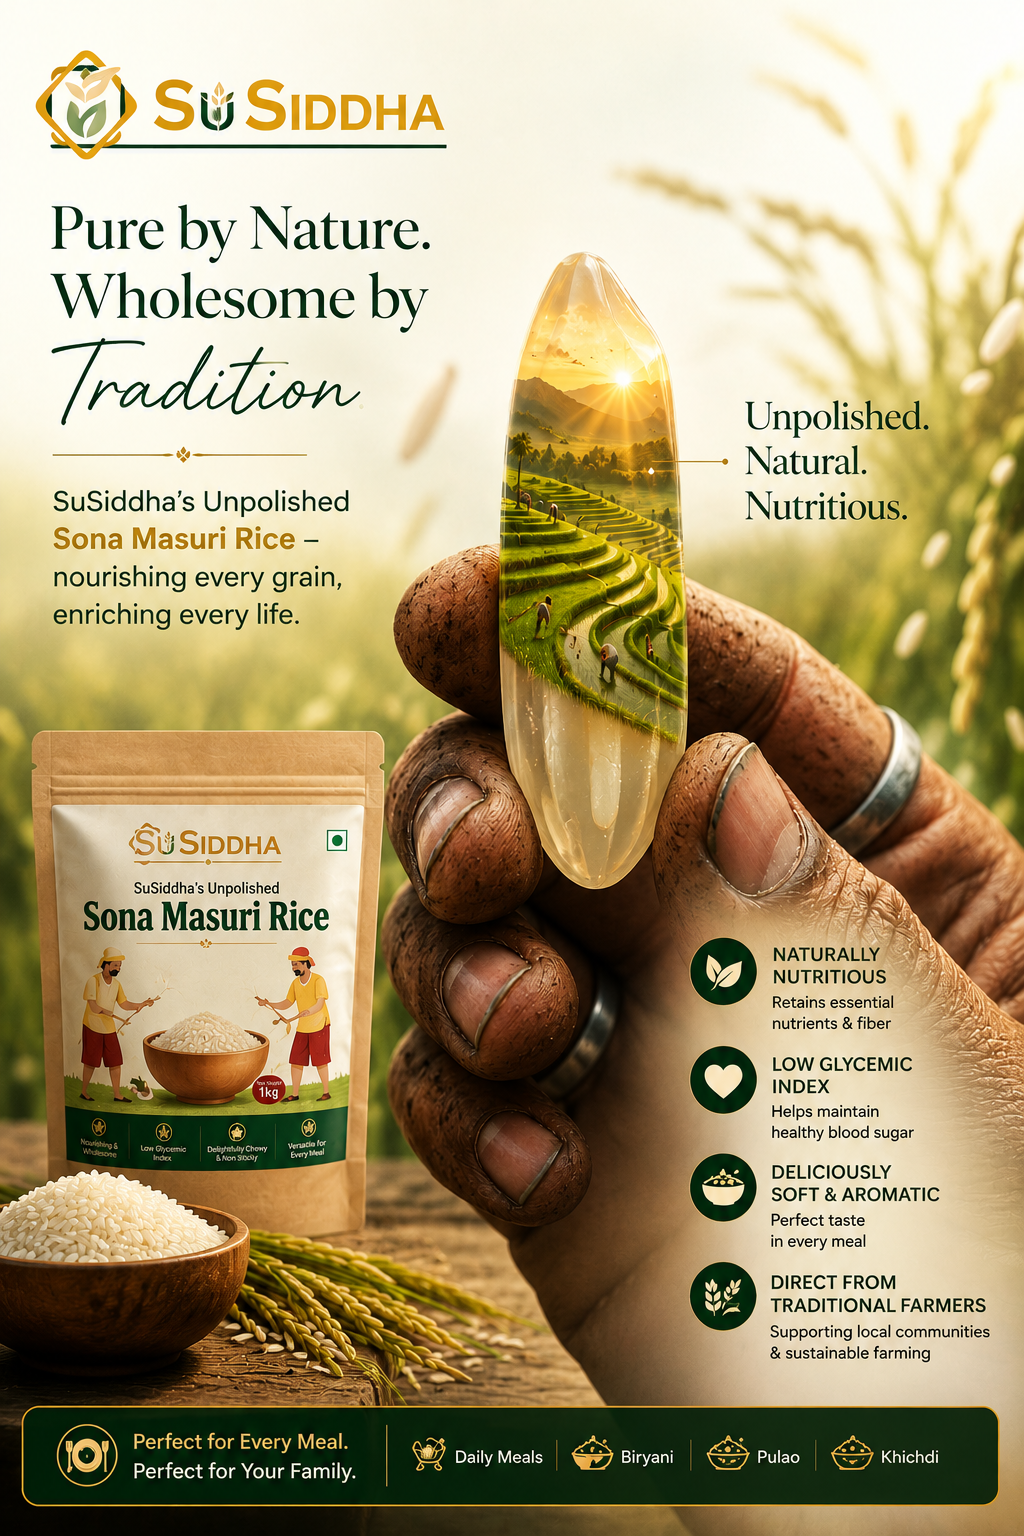
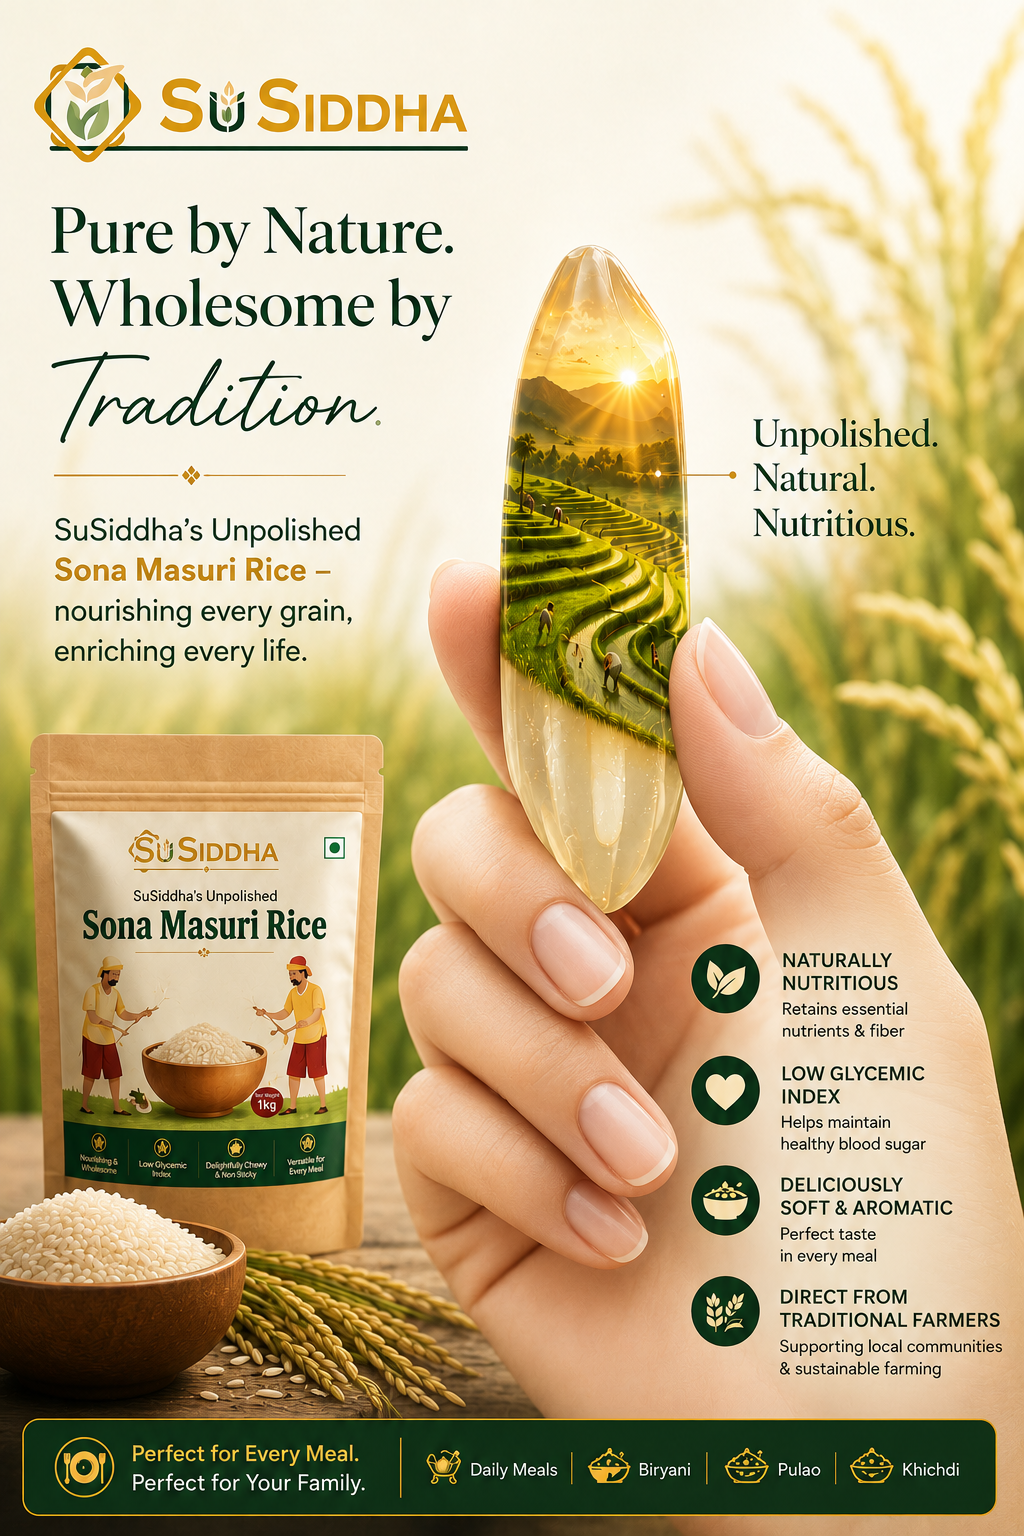
Update Benefits and ProductSection components with improved descriptions and terminology; replace rice advertisement image.

diff --git a/app/components/Benefits.tsx b/app/components/Benefits.tsx
@@ -49,30 +49,28 @@ export default function Benefits() {
               </h2>
 
               <p className="mt-7 max-w-xl text-base sm:text-lg leading-7 sm:leading-9 text-gray-600">
-                Every grain of SuSiddha Premium Unpolished Sona Masuri Rice 
-                retains its natural bran layer, preserving fibre, vitamins and 
-                essential minerals while delivering authentic aroma, 
-                traditional taste and wholesome nutrition for your family.
+                Unpolished Sona Masuri Rice retains the outer bran layer, providing dietary fibre along with naturally occurring vitamins and minerals. 
+                   These nutritional characteristics make it a suitable choice for balanced everyday meals.
               </p>
 
               {/* Benefit Cards */}
               <div className="mt-10 space-y-5">
                 {[
                   {
-                    title: "Rich in Fiber",
-                    text: "Supports healthy digestion and everyday wellness.",
+                    title: "Retains Bran Layer",
+                    text: "The outer bran layer remains intact after milling, preserving naturally occurring nutrients.",
+                  }               ,
+                  {
+                    title: "Dietary Fibre",
+                    text: "Provides dietary fibre that supports normal digestion as part of a balanced diet.",
                   },
                   {
-                    title: "Low Glycemic Index",
-                    text: "Helps maintain balanced nutrition and healthy living.",
+                    title: "Lower Glycemic Index",
+                    text: "Generally has a lower glycemic index than polished white rice.",
                   },
                   {
-                    title: "Naturally Nutritious",
-                    text: "Retains essential vitamins and minerals naturally.",
-                  },
-                  {
-                    title: "Authentic Taste",
-                    text: "Traditional aroma and wholesome flavour in every meal.",
+                    title: "Naturally Occurring Micronutrients",
+                    text: "Contains vitamins and minerals naturally present in the grain.",
                   },
                 ].map((item) => (
                   <div
@@ -99,20 +97,20 @@ export default function Benefits() {
               {/* Stats */}
               <div className="mt-10 grid grid-cols-1 sm:grid-cols-3 gap-4">
                 <div className="rounded-[24px] border border-[#D4AF37]/20 bg-white/70 p-6 text-center backdrop-blur-xl shadow-xl transition duration-500 hover:-translate-y-1.5 hover:shadow-[0_24px_50px_rgba(31,81,50,.15)]">
-                  <h3 className="text-3xl font-bold text-[#1F5132]">100%</h3>
-                  <p className="mt-2 text-sm text-gray-600">Natural</p>
+                  <h3 className="text-3xl font-bold text-[#1F5132]">Bran</h3>
+                  <p className="mt-2 text-sm text-gray-600">Retained</p>
                 </div>
 
                 <div className="rounded-[24px] border border-[#D4AF37]/20 bg-white/70 p-6 text-center backdrop-blur-xl shadow-xl transition duration-500 hover:-translate-y-1.5 hover:shadow-[0_24px_50px_rgba(31,81,50,.15)]">
                   <h3 className="text-3xl font-bold text-[#1F5132]">
-                    Low GI
+                    Lower GI
                   </h3>
-                  <p className="mt-2 text-sm text-gray-600">Healthy</p>
+                  <p className="mt-2 text-sm text-gray-600">Compared to Poloshed Rice</p>
                 </div>
 
                 <div className="rounded-[24px] border border-[#D4AF37]/20 bg-white/70 p-6 text-center backdrop-blur-xl shadow-xl transition duration-500 hover:-translate-y-1.5 hover:shadow-[0_24px_50px_rgba(31,81,50,.15)]">
-                  <h3 className="text-3xl font-bold text-[#1F5132]">Fiber</h3>
-                  <p className="mt-2 text-sm text-gray-600">Rich</p>
+                  <h3 className="text-3xl font-bold text-[#1F5132]">Dietary</h3>
+                  <p className="mt-2 text-sm text-gray-600">Fibre</p>
                 </div>
               </div>
             </div>
@@ -182,30 +180,30 @@ export default function Benefits() {
                 {/* Premium Badge */}
                 <div className="absolute bottom-4 left-4 sm:-bottom-8 sm:-left-8 rounded-full border-4 border-white bg-gradient-to-br from-[#1F5132] to-[#2F7A4A] h-20 w-20 sm:h-32 sm:w-32 shadow-2xl flex flex-col justify-center items-center text-center">
                   <span className="text-white text-xs tracking-[3px] uppercase">
-                    100%
+                    Bran
                   </span>
                   <span className="text-[#F8E8B0] text-lg sm:text-2xl font-bold leading-none">
-                    Natural
+                    Layer
                   </span>
                 </div>
 
                 {/* Floating Card */}
                 <div className="hidden sm:block absolute -right-10 top-12 rounded-3xl bg-white/90 backdrop-blur-xl border border-[#D4AF37]/30 px-6 py-5 shadow-2xl">
                   <p className="uppercase tracking-[3px] text-xs text-[#B8860B] font-semibold">
-                    Premium Quality
+                    Daily Nutrition
                   </p>
                   <h3 className="mt-1 text-2xl font-bold text-[#1F5132]">
-                    Farm Fresh
+                    Balanced Meals
                   </h3>
                 </div>
 
                 {/* Bottom Card */}
                 <div className="hidden sm:block absolute right-0 -bottom-10 rounded-[28px] border border-[#D4AF37]/25 bg-white/95 backdrop-blur-xl px-7 py-5 shadow-[0_20px_50px_rgba(0,0,0,.12)]">
                   <p className="uppercase tracking-[3px] text-xs text-[#B8860B] font-semibold">
-                    Rich Nutrition
+                    Whole Grain
                   </p>
                   <h3 className="text-2xl font-bold text-[#1F5132] mt-1">
-                    Unpolished Rice
+                    Sona Masuri
                   </h3>
                   <div className="mt-3 h-[2px] w-20 bg-gradient-to-r from-[#D4AF37] to-transparent" />
                 </div>

diff --git a/app/components/ProductSection.tsx b/app/components/ProductSection.tsx
@@ -18,7 +18,7 @@ export default function ProductSection() {
         {/* Heading */}
         <div className="mb-16 sm:mb-20 text-center">
           <p className="uppercase tracking-[4px] font-semibold text-[#B8860B]">
-            Premium Collection
+            Product Overview
           </p>
 
           <h2 className="mt-3 text-4xl md:text-5xl lg:text-6xl font-bold text-[#1F5132]">
@@ -27,8 +27,8 @@ export default function ProductSection() {
             Sona Masuri Rice
           </h2>
           <p className="mt-6 max-w-3xl mx-auto text-lg leading-8 text-gray-600">
-            Carefully processed using traditional methods to preserve nutrition,
-            taste, aroma and the natural goodness of every grain.
+            A medium-grain variety known for its soft texture, delicate aroma and versatility. 
+            Suitable for everyday meals including steamed rice, pulao and traditional Indian recipes.
           </p>
         </div>
         <div className="grid items-center gap-14 lg:grid-cols-2 lg:gap-16">
@@ -64,10 +64,10 @@ export default function ProductSection() {
             {/*premium badge*/}
                 <div className="absolute top-4 right-4 sm:-top-5 sm:right-0 rounded-full border border-white/50 bg-white/80 backdrop-blur-xl px-4 sm:px-6 py-2.5 sm:py-3 shadow-2xl z-20">
                 <p className="text-[10px] uppercase tracking-[0.35em] text-[#B8860B]">
-                Premium
+                Product
                 </p>
                 <h4 className="mt-1 font-bold text-[#18442D]">
-                100% Natural
+                Medium Grain
                 </h4>
                 </div>
             </div>
@@ -79,7 +79,7 @@ export default function ProductSection() {
               <div className="inline-flex items-center gap-2 rounded-full bg-[#FFF7E8] px-5 py-2 border border-[#B8860B]/20 shadow">
                 <span className="h-2.5 w-2.5 rounded-full  bg-gradient-to-r from-[#18442D] to-[#2F6B49] shadow-[0_20px_45px_rgba(24,68,45,.25)] transition-all duration-500 hover:-translate-y-1 hover:shadow-[0_30px_70px_rgba(24,68,45,.35)]" />
                 <span className="text-sm font-semibold tracking-wide text-[#B8860B]">
-                  PREMIUM QUALITY
+                  PRODUCT DETAILS
                 </span>
               </div>
               <h2 className="mt-6 text-4xl sm:text-5xl font-extrabold leading-[1.1] text-[#1F5132]">
@@ -88,10 +88,9 @@ export default function ProductSection() {
                 Sona Masuri Rice
               </h2>
               <p className="mt-7 text-base sm:text-lg leading-7 sm:leading-9 text-gray-600">
-                Crafted using traditional processing methods to preserve the
-                natural bran layer, fibre, vitamins and authentic aroma. Every
-                grain delivers purity, nutrition and wholesome taste for your
-                family.
+                SuSiddha Unpolished Sona Masuri Rice is carefully milled to retain the bran layer 
+                while maintaining its characteristic soft texture after cooking. Its light fragrance and non-sticky 
+                nature make it suitable for daily household use as well as a wide range of Indian dishes.
               </p>
               <div className="my-12 flex items-center gap-4">
               <div className="h-px flex-1 bg-gradient-to-r from-transparent via-[#D4AF37] to-transparent"/>
@@ -102,11 +101,11 @@ export default function ProductSection() {
               {/* Features */}
               <div className="space-y-5">
                 {[
-                  "Naturally Unpolished",
-                  "Rich in Fiber & Nutrients",
-                  "Low Glycemic Index",
-                  "Farm Fresh Quality",
-                ].map((item) => (
+                    "Medium Grain Variety",
+                    "Soft Texture After Cooking",
+                    "Light Natural Aroma",
+                    "Suitable for Daily Indian Meals",
+                  ].map((item) => (
                   <div
                     key={item}
                     className="flex items-start gap-4"
@@ -141,26 +140,26 @@ export default function ProductSection() {
               <div className="mt-14 grid grid-cols-1 sm:grid-cols-2 lg:grid-cols-3 gap-5">
                 <div className="flex min-h-[170px] sm:min-h-[150px] flex-col items-center justify-center rounded-[30px] border border-white/60 bg-white/80 p-6 text-center backdrop-blur-xl shadow-[0_20px_60px_rgba(0,0,0,.08)] transition-all duration-500 hover:-translate-y-2">
                   <h3 className="text-3xl sm:text-4xl font-bold leading-tight text-[#1F5132]">
-                    100%
+                    Medium 
                   </h3>
                   <p className="mt-3 text-sm font-medium text-gray-500">
-                    Natural
+                    Grain
                   </p>
                 </div>
                 <div className="flex min-h-[170px] sm:min-h-[150px] flex-col items-center justify-center rounded-[30px] border border-white/60 bg-white/80 p-6 text-center backdrop-blur-xl shadow-[0_20px_60px_rgba(0,0,0,.08)] transition-all duration-500 hover:-translate-y-2">
                   <h3 className="text-3xl sm:text-4xl font-bold leading-tight text-[#1F5132]">
-                    Low GI
+                    Soft
                   </h3>
                   <p className="mt-3 text-sm font-medium text-gray-500">
-                    Healthy Choice
+                    Cooked Texture
                   </p>
                 </div>
                 <div className="flex min-h-[170px] sm:min-h-[150px] flex-col items-center justify-center rounded-[30px] border border-white/60 bg-white/80 p-6 text-center backdrop-blur-xl shadow-[0_20px_60px_rgba(0,0,0,.08)] transition-all duration-500 hover:-translate-y-2">
                   <h3 className="text-3xl sm:text-4xl font-bold leading-tight text-[#1F5132]">
-                    Premium
+                    Daily
                   </h3>
                   <p className="mt-3 text-sm font-medium text-gray-500">
-                    Quality
+                    Kitchen Use
                   </p>
                 </div>
               </div>